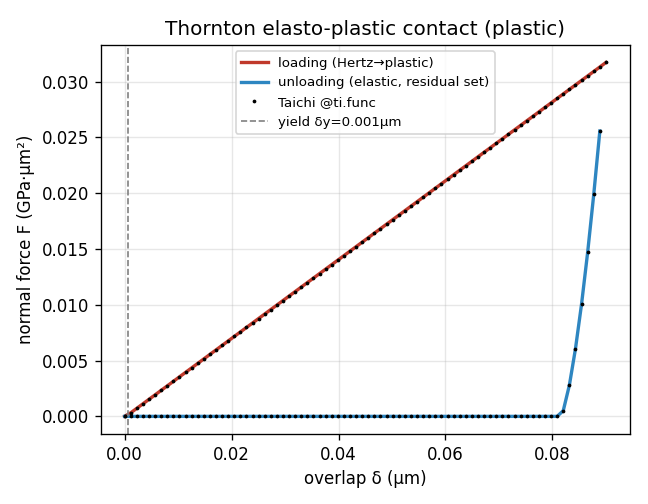
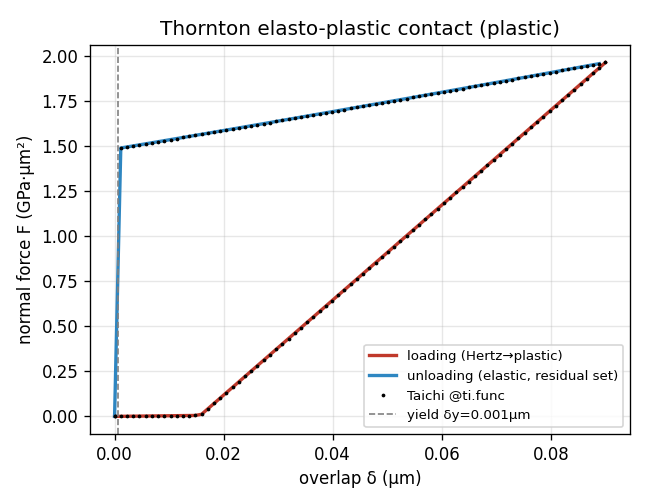
dem3d_plastic: incompressibility lock + epsilon_union porosity (fix over-compression)
The naive Thornton cap reproduced the MPM over-compression: pure-SE plastic
densified to apparent 0% porosity at only 0.10 GPa (never reaching 300 MPa, the
platen crushed to its floor stop).  Two coupled causes, both fixed:

(1) epsilon_sphere porosity double-counts overlaps -> false 0%.  Now accumulate
    the pairwise lens (two spherical caps) volume in-kernel and report
    epsilon_union = 1 - (sum V_sphere - sum V_lens)/V_box -- the physically
    correct void under heavy plastic flattening.

(2) The plastic plateau let sphere centers interpenetrate freely at capped force
    (no volume conservation), so the bed over-densified at low pressure -- the
    same continuum pathology MPM shows.  Real SE is shear-soft but bulk-
    INCOMPRESSIBLE: displaced material bulges out, it does not vanish.  Added an
    incompressibility LOCK: after a void-filling overlap beta*R* the contact
    stiffens to near-rigid (klock*E*R*).  This is the granular densification
    limit -- gives a physical residual porosity AND holds 300 MPa, on top of the
    jamming network the continuum lacks.  --beta-lock / --klock expose it;
    beta-lock is the main knob for residual porosity (calibrate to Minnmann 10%).

Unit-test gate still passes (Taichi law == analytic Thornton-with-lock, 2e-7).
Platen-bottomed-out warning added (signals too-soft -> raise the lock).

https://claude.ai/code/session_01H191Ni4xzj9H5ftstAm7Ft

diff --git a/scripts/dem3d_plastic.py b/scripts/dem3d_plastic.py
@@ -70,6 +70,13 @@ def parse_args(argv):
                     help='SE modulus (GPa).  Use the REAL bulk 24 — the Thornton yield cap '
                          'provides the plasticity, so NO 18× softening (1.53 never reaches yield).')
     ap.add_argument('--sigma-y', type=float, default=0.15, help='SE yield stress (GPa)')
+    ap.add_argument('--beta-lock', type=float, default=0.06,
+                    help='incompressibility lock: extra plastic overlap (×R*) of void-filling flow '
+                         'before the contact stiffens to near-rigid.  This is the granular '
+                         'densification limit (displaced material is bulk-incompressible) and is '
+                         'the main knob for the residual porosity.  Calibrate to Minnmann 10%%.')
+    ap.add_argument('--klock', type=float, default=8.0,
+                    help='lock stiffness (×E*·R*); near-rigid incompressible backstop slope')
     grp = ap.add_mutually_exclusive_group()
     grp.add_argument('--plastic', dest='plastic', action='store_true', help='yield cap ON (default)')
     grp.add_argument('--rigid', dest='plastic', action='store_false', help='yield cap OFF (pure Hertz)')
@@ -88,8 +95,22 @@ def parse_args(argv):
     return ap.parse_args(argv)
 
 
-# ── closed-form Thornton normal force (numpy reference = the analytic gate) ──────
-def thornton_numpy(delta, dmax, Rstar, Estar, py, plastic=True):
+# ── closed-form normal force (numpy reference = the analytic gate) ───────────────
+def f_load_numpy(delta, Rstar, Estar, py, dy, beta, klock):
+    """Monotonic loading force: Hertz (jamming) → plastic plateau (void-fill flow) →
+    incompressible lock (granular densification limit)."""
+    k = (4.0 / 3.0) * Estar * math.sqrt(Rstar)
+    if delta <= dy:
+        return k * delta ** 1.5
+    dlock = dy + beta * Rstar
+    Fy = k * dy ** 1.5
+    if delta <= dlock:
+        return Fy + math.pi * py * Rstar * (delta - dy)
+    Flock = Fy + math.pi * py * Rstar * (dlock - dy)
+    return Flock + klock * Estar * Rstar * (delta - dlock)
+
+
+def thornton_numpy(delta, dmax, Rstar, Estar, py, plastic=True, beta=0.06, klock=8.0):
     """Returns (F, new_dmax) for one contact.  numpy mirror of the Taichi @ti.func;
     the unit test asserts the two agree.  plastic=False → pure Hertz (rigid)."""
     if delta <= 0.0:
@@ -98,17 +119,15 @@ def thornton_numpy(delta, dmax, Rstar, Estar, py, plastic=True):
     if not plastic:
         return k * delta ** 1.5, max(dmax, delta)
     dy = Rstar * (math.pi * py / (2.0 * Estar)) ** 2          # yield overlap
-    Fy = k * dy ** 1.5
     dmx = max(dmax, delta)
     if dmx <= dy:                                            # never yielded → Hertz both ways
         return k * delta ** 1.5, dmx
-    # plastic set: peak force + flattened-contact unloading radius + residual overlap
-    Fmax = Fy + math.pi * py * Rstar * (dmx - dy)
+    Fmax = f_load_numpy(dmx, Rstar, Estar, py, dy, beta, klock)
     a_max2 = Rstar * (2.0 * dmx - dy)                        # Thornton plastic contact area /π
-    Rp = (4.0 / 3.0) * Estar * a_max2 ** 1.5 / Fmax          # Rp = (4/3)E* a_max³ / Fmax
+    Rp = (4.0 / 3.0) * Estar * a_max2 ** 1.5 / Fmax          # flattened unloading radius
     d0 = dmx - a_max2 / Rp                                   # residual (permanent) overlap
     if delta >= dmx - 1e-12:                                 # on the loading branch (new max)
-        F = Fy + math.pi * py * Rstar * (delta - dy)
+        F = f_load_numpy(delta, Rstar, Estar, py, dy, beta, klock)
     elif delta > d0:                                         # elastic unloading from the flat
         F = (4.0 / 3.0) * Estar * math.sqrt(Rp) * (delta - d0) ** 1.5
     else:                                                    # separated below residual set
@@ -189,11 +208,26 @@ def main(argv):
     ti.init(arch=arch, default_fp=ti.f32, random_seed=args.seed)
 
     # ── the contact law as a Taichi @ti.func (mirrors thornton_numpy) ───────────
-    PLASTIC = int(args.plastic)
+    PLASTIC = int(args.plastic); BETA = float(args.beta_lock); KLOCK = float(args.klock)
 
     @ti.func
     def pow15(z):                                          # z^1.5, Taichi-safe (no ** in kernels)
         return z * ti.sqrt(ti.max(z, 0.0))
+
+    @ti.func
+    def f_load(delta, Rstar, Estar, py, dy):
+        # monotonic loading: Hertz (jamming) → plastic plateau (void-fill) → incompressible lock
+        k = (4.0 / 3.0) * Estar * ti.sqrt(Rstar)
+        F = k * pow15(delta)
+        if delta > dy:
+            dlock = dy + BETA * Rstar
+            Fy = k * pow15(dy)
+            if delta <= dlock:
+                F = Fy + math.pi * py * Rstar * (delta - dy)           # soft void-filling flow
+            else:
+                Flock = Fy + math.pi * py * Rstar * (dlock - dy)
+                F = Flock + KLOCK * Estar * Rstar * (delta - dlock)    # near-rigid incompressible
+        return F
 
     @ti.func
     def contact_normal(delta, dmax, Rstar, Estar, py):
@@ -206,20 +240,20 @@ def main(argv):
             else:
                 t = math.pi * py / (2.0 * Estar)
                 dy = Rstar * t * t                         # yield overlap
-                Fy = k * pow15(dy)
                 if new_dmax <= dy:
                     F = k * pow15(delta)                   # never yielded → Hertz both ways
                 else:
-                    Fmax = Fy + math.pi * py * Rstar * (new_dmax - dy)
-                    a_max2 = Rstar * (2.0 * new_dmax - dy)
-                    Rp = (4.0 / 3.0) * Estar * pow15(a_max2) / Fmax
-                    d0 = new_dmax - a_max2 / Rp            # residual (permanent) overlap
+                    Fmax = f_load(new_dmax, Rstar, Estar, py, dy)
                     if delta >= new_dmax - 1e-9:
-                        F = Fy + math.pi * py * Rstar * (delta - dy)   # loading plateau
-                    elif delta > d0:
-                        F = (4.0 / 3.0) * Estar * ti.sqrt(Rp) * pow15(delta - d0)  # elastic unload
+                        F = f_load(delta, Rstar, Estar, py, dy)        # on the loading curve
                     else:
-                        F = 0.0                            # separated below residual set
+                        a_max2 = Rstar * (2.0 * new_dmax - dy)
+                        Rp = (4.0 / 3.0) * Estar * pow15(a_max2) / Fmax
+                        d0 = new_dmax - a_max2 / Rp        # residual (permanent) overlap
+                        if delta > d0:
+                            F = (4.0 / 3.0) * Estar * ti.sqrt(Rp) * pow15(delta - d0)  # unload
+                        else:
+                            F = 0.0                        # separated below residual set
         return F, new_dmax
 
     # ── unit test: drive one contact along a load→unload δ path ─────────────────
@@ -245,6 +279,7 @@ def main(argv):
     dmax = ti.field(ti.f32, (N, N))                      # contact history (dense; v2: cell-list slots)
     dmax_fl = ti.field(ti.f32, N); dmax_tp = ti.field(ti.f32, N)
     wall_z = ti.field(ti.f32, ()); wall_force = ti.field(ti.f32, ())
+    overlap_vol = ti.field(ti.f32, ())                  # Σ pairwise lens vol → ε_union correction
     Lx = ti.field(ti.f32, ())
 
     x.from_numpy(np.ascontiguousarray(cx)); rad.from_numpy(cr); Ei.from_numpy(cE)
@@ -269,6 +304,7 @@ def main(argv):
         for i in range(N):
             f[i] = ti.Vector([0.0, 0.0, 0.0])
         wall_force[None] = 0.0
+        overlap_vol[None] = 0.0
         Lc = Lx[None]
         for i in range(N):                                  # parallel over i
             # floor (z = floor): overlap if particle dips below floor+rad
@@ -301,6 +337,12 @@ def main(argv):
                     py = ti.min(pyi[i], pyi[j])
                     Fn, nd = contact_normal(delta, dmax[i, j], Rstar, estar_pair(i, j), py)
                     dmax[i, j] = nd
+                    # inclusion-exclusion lens volume (two spherical caps) → ε_union porosity
+                    x1 = (dist * dist + rad[i] * rad[i] - rad[j] * rad[j]) / (2.0 * dist)
+                    h1 = rad[i] - x1; h2 = rad[j] - (dist - x1)
+                    if h1 > 0.0 and h2 > 0.0:
+                        overlap_vol[None] += (math.pi / 3.0) * (h1 * h1 * (3.0 * rad[i] - h1)
+                                                                + h2 * h2 * (3.0 * rad[j] - h2))
                     nrm = dx / dist
                     vrel = v[i] - v[j]
                     vn = vrel.dot(nrm)
@@ -345,7 +387,8 @@ def main(argv):
         v_wall = -max(-1.0, min(1.0, err)) * vmax           # err>0 → move down (compress)
         wall_z[None] = max(floor_min, wall_z[None] + v_wall)
         height = wall_z[None] - floor
-        por = max(0.0, 1.0 - vol_solid / (area * height)) * 100.0
+        ov = float(overlap_vol[None])                       # double-counted overlap (last substep)
+        por = max(0.0, 1.0 - (vol_solid - ov) / (area * height)) * 100.0   # ε_union (overlap-corrected)
         series.append((frame, p, por, wall_z[None]))
         converged = converged + 1 if abs(p - target) < 0.04 * target else 0
         last = (converged >= 10 and frame > 25) or frame == args.frames - 1
@@ -359,6 +402,9 @@ def main(argv):
     por_fin = float(np.mean([s[2] for s in series[-5:]]))
     print(f"FINAL  pressure={p_fin:.4f} GPa  porosity={por_fin:.2f}%   "
           f"[{'PLASTIC' if args.plastic else 'RIGID'}, {args.material}, N={N}]")
+    if wall_z[None] <= floor_min + 1e-6 and p_fin < 0.9 * target:
+        print(f"  ⚠ platen bottomed out at floor_min={floor_min:.3f} below target → bed TOO SOFT: "
+              f"raise --sigma-y (plateau) or --beta-lock (later lock) to hold {target} GPa")
     return por_fin, p_fin
 
 
@@ -390,7 +436,8 @@ def run_unit_test(ti, contact_normal, args):
     # numpy analytic reference
     Fnp = np.zeros(len(path)); dmax = 0.0
     for s, d in enumerate(path):
-        Fnp[s], dmax = thornton_numpy(float(d), dmax, Rstar, Estar, py, plastic=args.plastic)
+        Fnp[s], dmax = thornton_numpy(float(d), dmax, Rstar, Estar, py, plastic=args.plastic,
+                                      beta=args.beta_lock, klock=args.klock)
     err = float(np.max(np.abs(Fti - Fnp)) / (np.max(np.abs(Fnp)) + 1e-12))
     dy = Rstar * (math.pi * py / (2 * Estar)) ** 2
     print(f"UNIT TEST  Thornton contact  R*={Rstar:.3f}µm  E*={Estar:.3f}GPa  "
